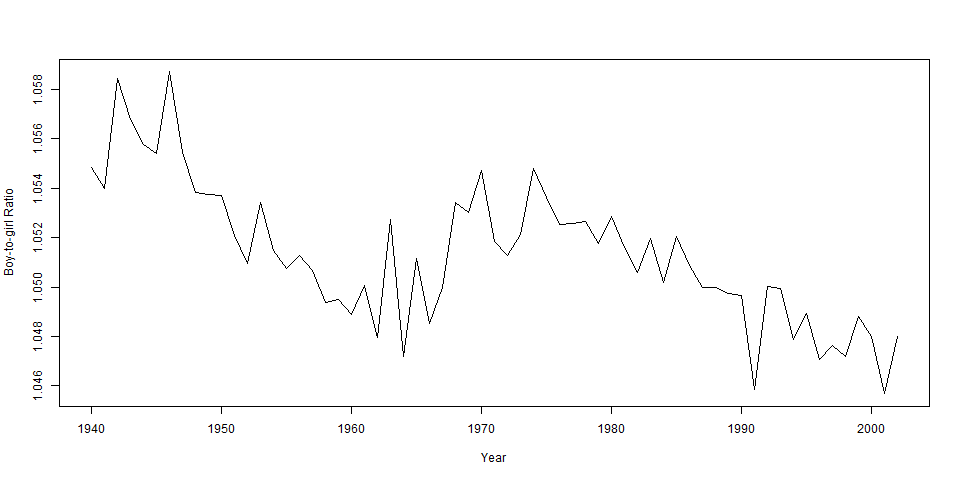
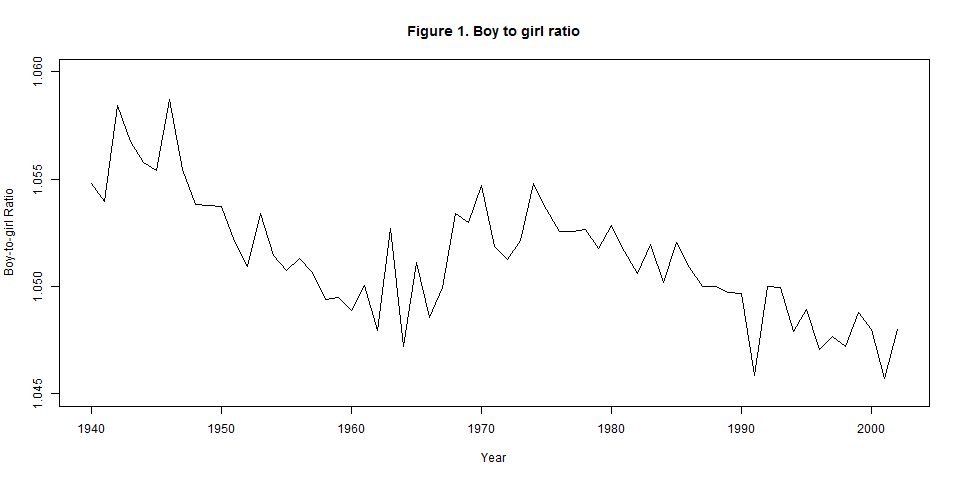
lab0

diff --git a/lab0/README.md b/lab0/README.md
@@ -1,0 +1,126 @@
+# da-workshops
+Lab0 in course Data analysis with R
+
+## My tasks
+
+```r
+#files downloaded and stored into lab0
+source("lab0/present.R") 
+source("lab0/arbuthnot.R")
+```
+
+### Task 1.
+Exploration data
+```r
+summary(present$year)   #1.1
+dim(present)            #1.2
+names(present)          #1.3
+```
+
+Console output
+```r
+>summary(present$year)
+   Min. 1st Qu.  Median    Mean 3rd Qu.    Max. 
+   1940    1956    1971    1971    1986    2002 
+> dim(present)
+[1] 63  3
+> names(present)
+[1] "year"  "boys"  "girls"
+```
+
+### Task 2.
+Compare values into datasets
+```r
+summary(present)
+summary(arbuthnot)
+```
+
+Console output
+```r
+>summary(present)
+       year           boys             girls        
+ Min.   :1940   Min.   :1211684   Min.   :1148715  
+ 1st Qu.:1956   1st Qu.:1799857   1st Qu.:1711405  
+ Median :1971   Median :1924868   Median :1831679  
+ Mean   :1971   Mean   :1885600   Mean   :1793915  
+ 3rd Qu.:1986   3rd Qu.:2058524   3rd Qu.:1965538  
+ Max.   :2002   Max.   :2186274   Max.   :2082052  
+
+>summary(arbuthnot)
+      year           boys          girls     
+ Min.   :1629   Min.   :2890   Min.   :2722  
+ 1st Qu.:1649   1st Qu.:4759   1st Qu.:4457  
+ Median :1670   Median :6073   Median :5718  
+ Mean   :1670   Mean   :5907   Mean   :5535  
+ 3rd Qu.:1690   3rd Qu.:7576   3rd Qu.:7150  
+ Max.   :1710   Max.   :8426   Max.   :7779 
+```
+We can see that 'present' is yanger and values into columns boys and girls 
+are bigger than into 'arbuthnot' dataset
+
+Let compare scale
+```r
+colMeans(present)[1]-colMeans(arbuthnot)[1]
+colMeans(present)/colMeans(arbuthnot)
+```
+Console output
+```r
+>colMeans(present)[1]-colMeans(arbuthnot)[1]
+ year 
+301.5 
+>colMeans(present)/colMeans(arbuthnot)
+      year       boys      girls 
+  1.180593 319.209155 324.124597 
+```
+
+### Task 3.
+We should know max and min value for scale plot, let use
+```r
+> summary(present$boys/present$girls)
+   Min. 1st Qu.  Median    Mean 3rd Qu.    Max. 
+  1.046   1.050   1.051   1.051   1.053   1.059 
+```
+Plot boys to girls ration
+```r
+png(filename = "lab0/boy-to-girl_ratio.png", width = 960, height = 480,
+    pointsize = 12, bg = "white")
+plot(boys/girls ~ year, data = present, 
+     type = "l",  ylim = c(1.045, 1.06),
+     xlab="Year", ylab="Boy-to-girl Ratio")
+dev.off()
+```
+
+Result on figure
+![boys to girls ratio](https://github.com/alexey-turuta/da-workshops/blob/master/lab0/boy-to-girl_ratio.png)
+The general trend the ratio decreases
+
+Boys proportion: 
+```r
+>summary(present$boys/(present$girls + present$boys))
+ Min. 1st Qu.  Median    Mean 3rd Qu.    Max. 
+ 0.5112  0.5121  0.5125  0.5125  0.5130  0.5143 
+```
+Make figure with boys proportion
+```r
+png(filename = "lab0/boy-to-all_proportion.png", width = 960, height = 480,
+    pointsize = 12, bg = "white")
+plot(boys/(girls+boys) ~ year, data = present, 
+     type = "l",  ylim = c(0.51, 0.515),
+     xlab="Year", ylab="Boy proportion")
+dev.off()
+```
+![boys proportion](https://github.com/alexey-turuta/da-workshops/blob/master/lab0/boy-to-all_proportion.png)
+
+### Task 4.
+Year which has max sum boys and girls
+
+```r
+present[which.max(present$boys + present$girls),1] 
+```
+Result is 1961
+```r
+> present[which.max(present$boys + present$girls),1]
+[1] 1961
+```
+
+Thank you for attention.

diff --git a/README.md b/README.md
@@ -1,111 +1,2 @@
 # da-workshops
-Lab0 in course Data analysis with R
-
-## My tasks
-
-```r
-#file downloaded and stored into lab0
-source("lab0/present.R") 
-source("lab0/arbuthnot.R")
-```
-
-### Task 1.
-Exporation data
-```r
-summary(present$year)   #1.1
-dim(present)            #1.2
-names(present)          #1.3
-```
-
-Console output
-```r
->summary(present$year)
-   Min. 1st Qu.  Median    Mean 3rd Qu.    Max. 
-   1940    1956    1971    1971    1986    2002 
-> dim(present)
-[1] 63  3
-> names(present)
-[1] "year"  "boys"  "girls"
-```
-
-### Task 2.
-Compare values into datasets
-```r
-summary(present)
-summary(arbuthnot)
-```
-
-Console output
-```r
->summary(present)
-       year           boys             girls        
- Min.   :1940   Min.   :1211684   Min.   :1148715  
- 1st Qu.:1956   1st Qu.:1799857   1st Qu.:1711405  
- Median :1971   Median :1924868   Median :1831679  
- Mean   :1971   Mean   :1885600   Mean   :1793915  
- 3rd Qu.:1986   3rd Qu.:2058524   3rd Qu.:1965538  
- Max.   :2002   Max.   :2186274   Max.   :2082052  
-
->summary(arbuthnot)
-      year           boys          girls     
- Min.   :1629   Min.   :2890   Min.   :2722  
- 1st Qu.:1649   1st Qu.:4759   1st Qu.:4457  
- Median :1670   Median :6073   Median :5718  
- Mean   :1670   Mean   :5907   Mean   :5535  
- 3rd Qu.:1690   3rd Qu.:7576   3rd Qu.:7150  
- Max.   :1710   Max.   :8426   Max.   :7779 
-```
-We can see that 'present' is yanger and values into columns boys and girls 
-are bigger that into 'arbuthnot' dataset
-
-Let compare scale
-```r
-colMeans(present)[1]-colMeans(arbuthnot)[1]
-colMeans(present)/colMeans(arbuthnot)
-```
-Console output
-```r
->colMeans(present)[1]-colMeans(arbuthnot)[1]
- year 
-301.5 
->colMeans(present)/colMeans(arbuthnot)
-      year       boys      girls 
-  1.180593 319.209155 324.124597 
-```
-
-### Task 3.
-We should know max|min value for plot, let use
-```r
-> summary(present$boys/present$girls)
-   Min. 1st Qu.  Median    Mean 3rd Qu.    Max. 
-  1.046   1.050   1.051   1.051   1.053   1.059 
-```
-Plot boys to girls ration
-```r
-png(filename = "lab0/boy-to-girl_ratio.png", width = 960, height = 480,
-    pointsize = 12, bg = "white")
-plot(boys/girls ~ year, data = present, 
-     type = "l",  ylim = c(1.045, 1.06),
-     xlab="Year", ylab="Boy-to-girl Ratio")
-dev.off()
-plot(x = arbuthnot$year, y=B2G_RationArbuthnot, type = "l",
-     xlab="Year", ylab="Boy-to-girl Ratio")
-```
-
-Result on figure 1.
-![boy-to-girl_ratio]
-![boys to girls ratio](https://github.com/alexey-turuta/da-workshops/blob/master/lab0/boy-to-girl_ratio.png)
-
-### Task 4.
-Year which has max sum boys and girls
-
-```r
-present[which.max(present$boys + present$girls),1] 
-```
-Result is 1961
-```r
-> present[which.max(present$boys + present$girls),1]
-[1] 1961
-```
-
-Thank you for attention.
+Data analysis with R
